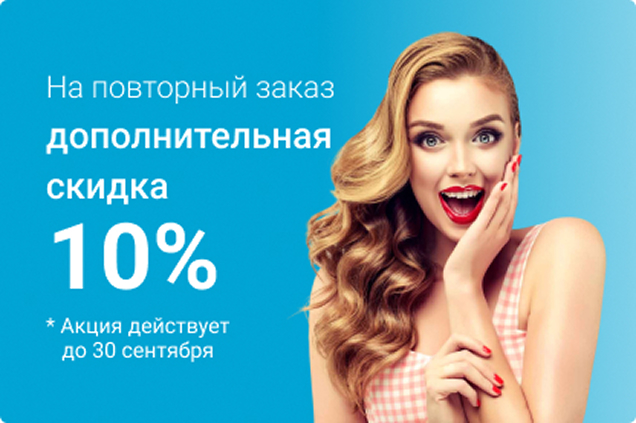
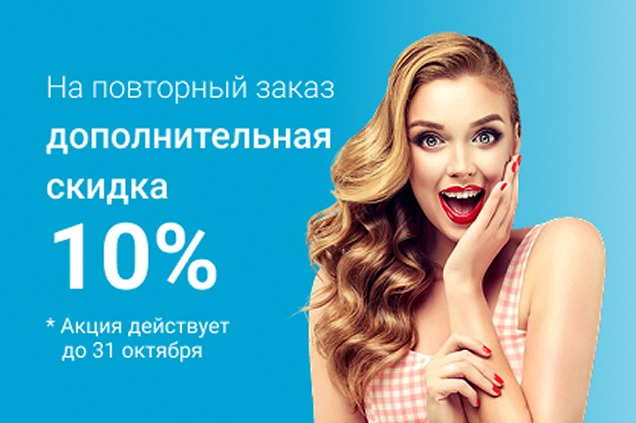
update 05.10.25

diff --git a/archive-actions.php b/archive-actions.php
@@ -253,7 +253,7 @@ get_template_part('template-parts/action/action', '', [
     'actions_count' => 'all',
     'bg_color' => 'bg-white',
     'section_title' => 'Наши акции',
-    'card_type' => 'simple',
+    'card_type' => 'modal',
     'additional_classes' => 'justify-content-lg-center'
 ]);
 ?>
